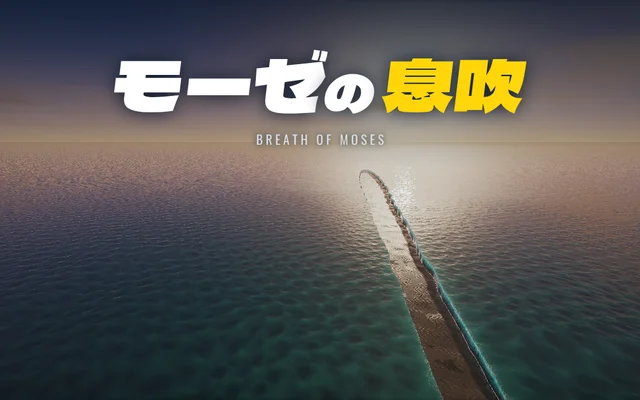
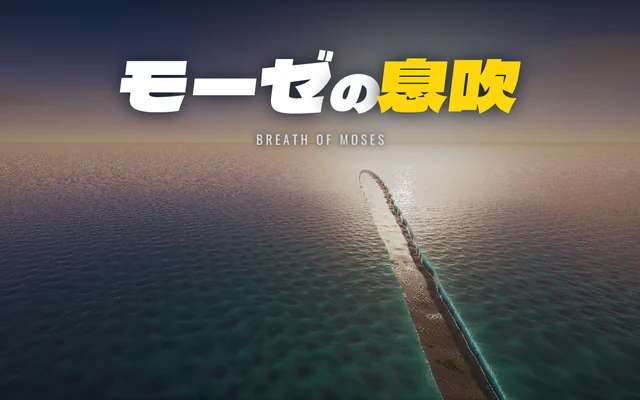
モーゼの息吹：タイトルの「の」と「息」の間を詰める
Claude-Session: https://claude.ai/code/session_01XJ9ANvvZGtAMuXvwoba9Cf

Changed region(s): [[0.375, 0.12, 0.8438, 0.3], [0.1562, 0.15, 0.25, 0.3], [0.25, 0.15, 0.3125, 0.3]]

diff --git a/public/apps/moses-ibuki/style.css b/public/apps/moses-ibuki/style.css
@@ -35,7 +35,8 @@ main{position:fixed;inset:0;z-index:3;pointer-events:none}.screen{pointer-events
 .title-screen{height:100%;padding:clamp(70px,12svh,140px) 22px var(--bottom);display:flex;flex-direction:column;align-items:center;justify-content:space-between}
 .title-block{display:flex;flex-direction:column;align-items:center;gap:8px;width:100%}
 .title-screen h1{font:400 64px/1.2 var(--logo);letter-spacing:-.03em;transform:skewX(-7deg);text-shadow:0 3px 0 #0e1a2b66,0 8px 38px #0e1a2b99;display:flex;flex-direction:row;align-items:baseline;justify-content:center;white-space:nowrap;gap:.08em;max-width:100%}
-.title-screen h1 small{font-size:1em;color:#fff}.title-screen h1 .no,#boot .no{font-size:.72em;letter-spacing:.02em}.title-screen h1 em{font-style:normal;color:var(--sun)}
+.title-screen h1 small{font-size:1em;color:#fff}.title-screen h1 .no,#boot .no{font-size:.72em;letter-spacing:0;margin-right:-.04em}
+html[lang=ja] .title-screen h1{gap:0}.title-screen h1 em{font-style:normal;color:var(--sun)}
 html:is([lang=zh-Hans],[lang=zh-Hant],[lang=ko]) .title-screen h1{font-weight:900}
 html:not([lang=ja]):not([lang^=zh]) .title-screen h1{gap:.3em}
 .title-sub{font:400 12px var(--num);letter-spacing:.42em;text-indent:.42em;color:var(--ash);text-shadow:0 1px 8px #0e1a2b;text-align:center}

diff --git a/public/apps/moses-ibuki/share.js b/public/apps/moses-ibuki/share.js
@@ -42,7 +42,7 @@ export function makeResultCard(scene, r) {
   let x0 = 76; c.fillStyle = '#fff';
   if (tA.endsWith('の')) {
     const head = tA.slice(0, -1); c.fillText(head, x0, 146); x0 += c.measureText(head).width;
-    const f0 = c.font; c.font = f0.replace(/\d+px/, Math.round(fs * NO_SCALE) + 'px'); c.fillText('の', x0, 146); x0 += c.measureText('の').width + 2; c.font = f0;
+    const f0 = c.font; c.font = f0.replace(/\d+px/, Math.round(fs * NO_SCALE) + 'px'); c.fillText('の', x0, 146); x0 += c.measureText('の').width - fs * 0.07; c.font = f0;
   } else { c.fillText(tA, x0, 146); x0 += c.measureText(tA).width + (/[a-z가-힣]/i.test(tA) ? fs * 0.25 : 2); }
   c.fillStyle = '#ffd60a'; c.fillText(tB, x0, 146);
   c.restore();
